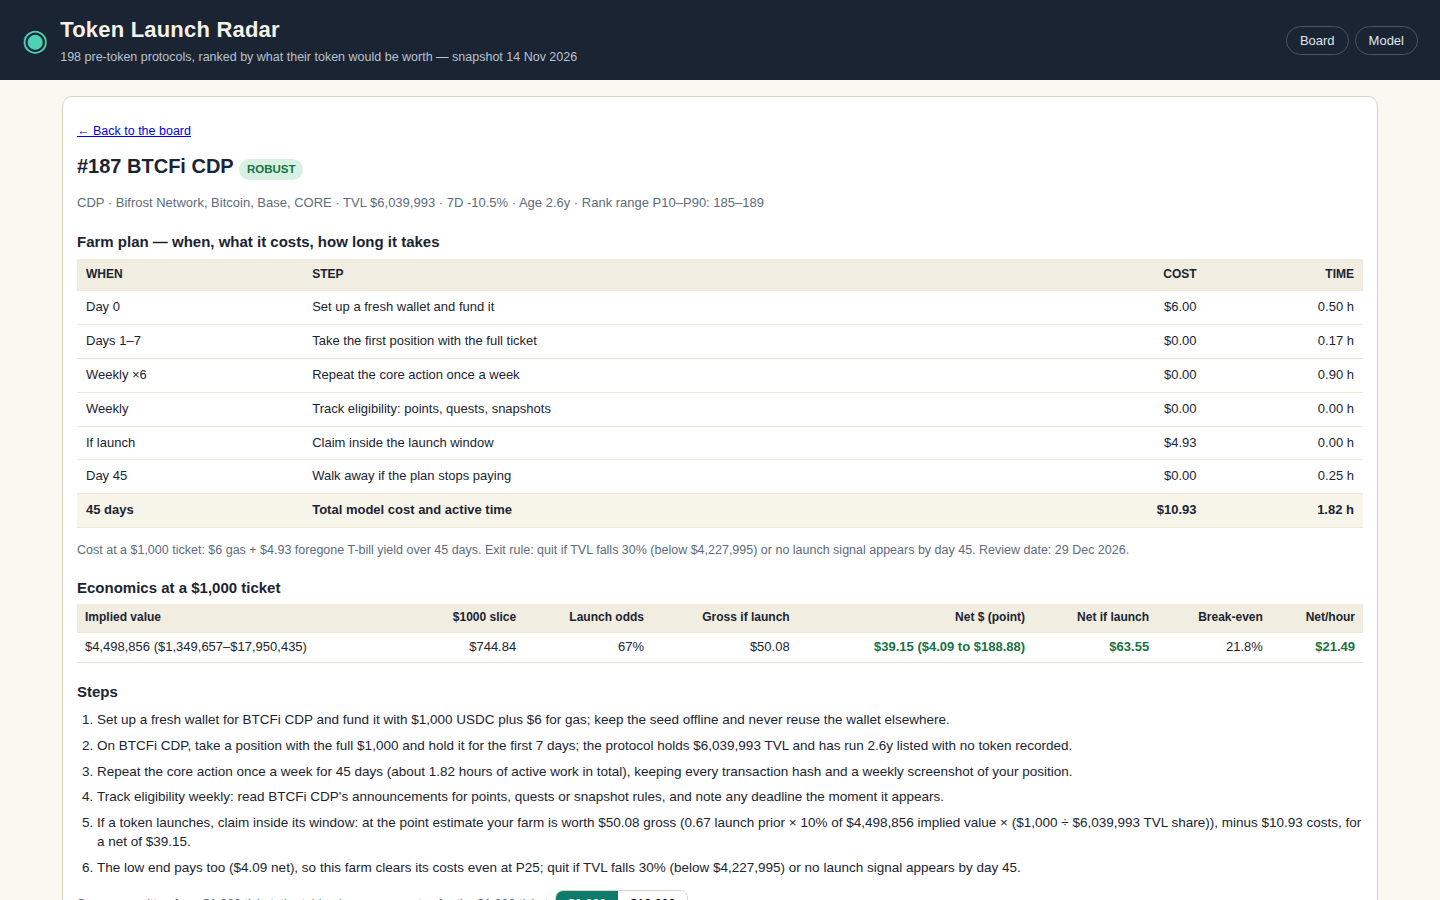
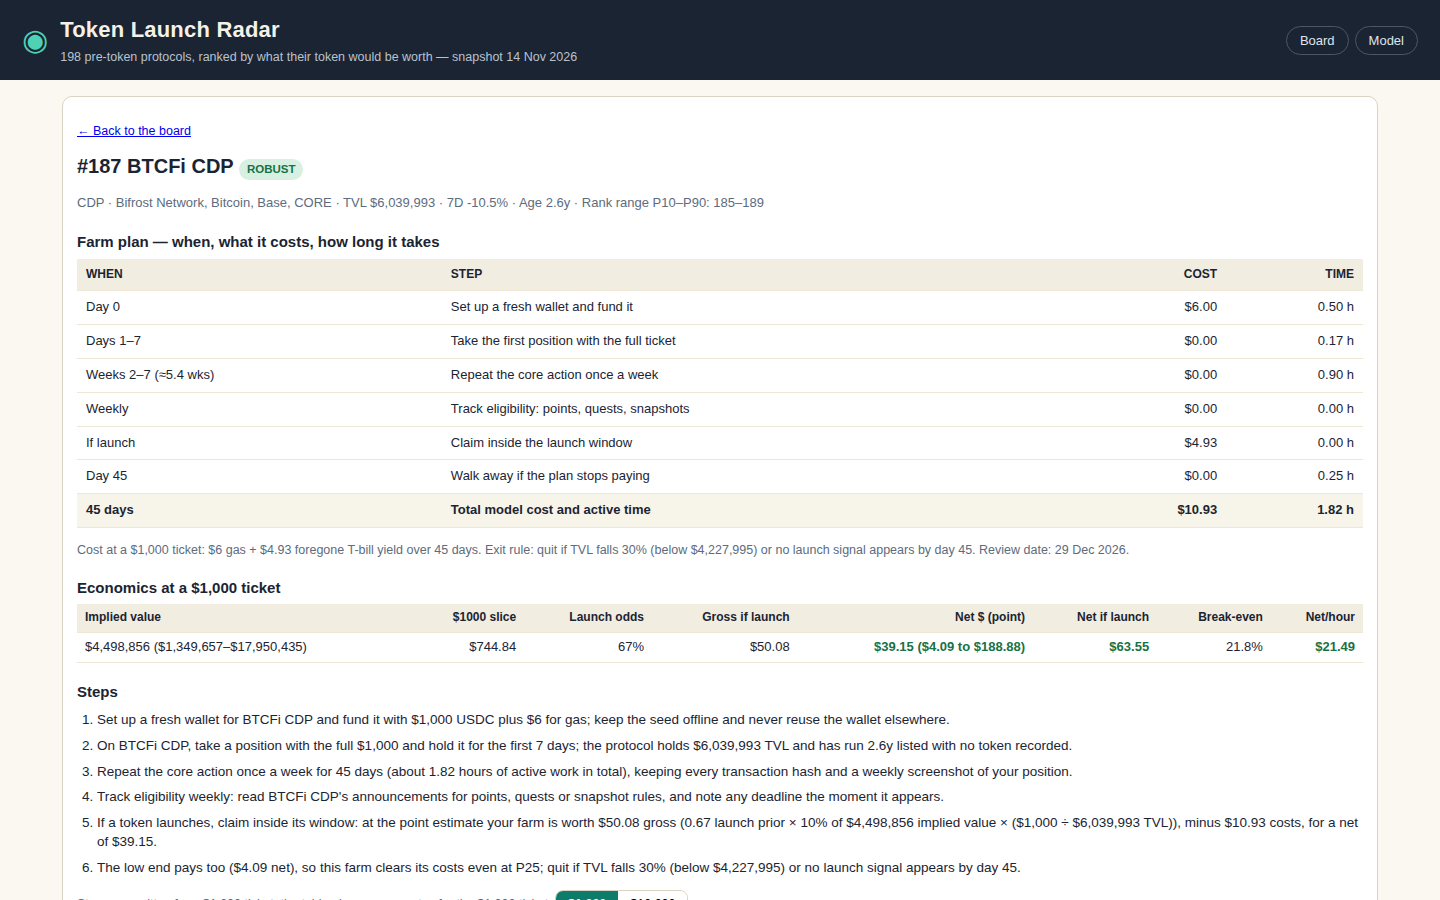
Fix critic items S1 + C1-C5: commit BUILD-REPORT (time reconciled to 17 min), ticket-aware hint + hero, plan relabel, larger scatter legend, step-5 wording

diff --git a/dashboard/app.js b/dashboard/app.js
@@ -88,11 +88,16 @@
     return '<div class="kpi"><div class="n">' + n + '</div><div class="l">' + l + '</div><div class="s">' + s + '</div></div>';
   }
 
-  function hero() {
-    var b = D.best_farm;
-    return '<div class="hero"><span class="big">Best farm: ' + esc(b.name) + ' — ' + signed(b.net_per_hour_usd) + '/h</span> · ' +
-      'Net ' + signed(b.net_point_usd) + ' on a $1,000 ticket over ' + b.hours + ' hours (45-day hold), ' +
-      'break-even share ' + pct(b.break_even_share, 1) + ', verdict ' + b.verdict + '.</div>';
+  function hero(p) {
+    var best = null, bestPh = -Infinity;
+    rows.forEach(function (r) {
+      var t = ticketNums(r, p.ticket);
+      if (t.perHour > bestPh) { bestPh = t.perHour; best = { row: r, t: t }; }
+    });
+    var b = best.t;
+    return '<div class="hero"><span class="big">Best farm: ' + esc(best.row.name) + ' — ' + signed(b.perHour) + '/h</span> · ' +
+      'Net ' + signed(b.netPoint) + ' on a $' + p.ticket.toLocaleString() + ' ticket over ' + HOLD_HOURS.toFixed(2) + ' hours (45-day hold), ' +
+      'break-even share ' + pct(b.breakEven, 1) + ', verdict ' + b.verdict + '.</div>';
   }
 
   function scatter() {
@@ -120,9 +125,9 @@
       dots +
       '<text x="' + (W / 2) + '" y="' + (H - 8) + '" font-size="11" text-anchor="middle" fill="#5d6b7d">TVL (log scale)</text>' +
       '<text x="12" y="' + (H / 2) + '" font-size="11" fill="#5d6b7d" transform="rotate(-90 12 ' + (H / 2) + ')">Value (log scale)</text>' +
-      '<text x="' + (W - R) + '" y="' + (T + 10) + '" font-size="11" text-anchor="end" fill="#1d5fa8">fitted curve</text>' +
-      '<text x="' + L + '" y="' + (T + 10) + '" font-size="11" fill="#0e7c6b">● board rows</text>' +
-      '<text x="' + (L + 90) + '" y="' + (T + 10) + '" font-size="11" fill="#9aa5b1">● live comps</text>' +
+      '<text x="' + (W - R) + '" y="' + (T + 10) + '" font-size="16" text-anchor="end" fill="#1d5fa8">fitted curve</text>' +
+      '<text x="' + L + '" y="' + (T + 10) + '" font-size="16" fill="#0e7c6b">● board rows</text>' +
+      '<text x="' + (L + 124) + '" y="' + (T + 10) + '" font-size="16" fill="#9aa5b1">● live comps</text>' +
       '</svg>';
   }
 
@@ -222,13 +227,13 @@
       '<span class="seg"><button class="' + (p.ticket === 1000 ? 'on' : '') + '" onclick="location.href=\'' + link(Object.assign({}, p, { ticket: 1000 })) + '\'">$1,000 ticket</button>' +
       '<button class="' + (p.ticket === 10000 ? 'on' : '') + '" onclick="location.href=\'' + link(Object.assign({}, p, { ticket: 10000 })) + '\'">$10,000 ticket</button></span>' +
       '<button class="btn" id="csv">Download CSV</button>' +
-      '<span class="muted small">' + list.length + ' rows · ticket cost ' + money(ticketCost(p.ticket), 2) + ' · click a row for its farm plan</span>' +
+      '<span class="muted small">' + list.length + ' rows · ticket cost ' + money(ticketCost(p.ticket), 2) + ' · top rows by value lose at $' + p.ticket.toLocaleString() + ': their TVL is too large for the ticket — sort by Net/hour to find the farms that pay · click a row for its farm plan</span>' +
       '</div><div style="overflow-x:auto"><table class="board">' + head + body + '</table></div></div>';
   }
 
   function renderBoard(p) {
     var app = $('app');
-    var html = kpiStrip() + hero() +
+    var html = kpiStrip() + hero(p) +
       '<div class="grid2"><div class="card"><h2>Implied value vs TVL</h2><p class="hint">Curve: log(mcap) = ' + D.fit.intercept + ' + ' + D.fit.slope + '·log(TVL), fitted on ' + D.fit.comps_n + ' clean comps. LOO band ×' + D.loo.p25_used + ' to ×' + D.loo.p75_used + '.</p>' + scatter() + '</div>' +
       '<div class="card"><h2>Tenure: who already has a token</h2>' + tenureChart() + '</div></div>';
     if (p.tab === 'live') html += liveTable(p);
@@ -300,7 +305,7 @@
     var planRows = [
       ['Day 0', 'Set up a fresh wallet and fund it', '$6.00', '0.50 h'],
       ['Days 1–7', 'Take the first position with the full ticket', '$0.00', '0.17 h'],
-      ['Weekly ×6', 'Repeat the core action once a week', '$0.00', '0.90 h'],
+      ['Weeks 2–7 (≈5.4 wks)', 'Repeat the core action once a week', '$0.00', '0.90 h'],
       ['Weekly', 'Track eligibility: points, quests, snapshots', '$0.00', '0.00 h'],
       ['If launch', 'Claim inside the launch window', '$4.93', '0.00 h'],
       ['Day 45', 'Walk away if the plan stops paying', '$0.00', '0.25 h'],

diff --git a/lib/model.ts b/lib/model.ts
@@ -666,7 +666,7 @@ export function farmSteps(row: Omit<BoardRow, 'farm_steps' | 'rank' | 'rank_p10'
     `On ${row.name}, take a position with the full $1,000 and hold it for the first 7 days; the protocol holds ${tvl} TVL and has run ${age} with no token recorded.`,
     `Repeat the core action once a week for 45 days (about 1.82 hours of active work in total), keeping every transaction hash and a weekly screenshot of your position.`,
     `Track eligibility weekly: read ${row.name}'s announcements for points, quests or snapshot rules, and note any deadline the moment it appears.`,
-    `If a token launches, claim inside its window: at the point estimate your farm is worth ${gross} gross (${row.p_launch.toFixed(2)} launch prior × 10% of ${implied} implied value × ($1,000 ÷ ${tvl} TVL share)), minus $10.93 costs, for a net of ${net}.`,
+    `If a token launches, claim inside its window: at the point estimate your farm is worth ${gross} gross (${row.p_launch.toFixed(2)} launch prior × 10% of ${implied} implied value × ($1,000 ÷ ${tvl} TVL)), minus $10.93 costs, for a net of ${net}.`,
     payLine,
   ];
 }
